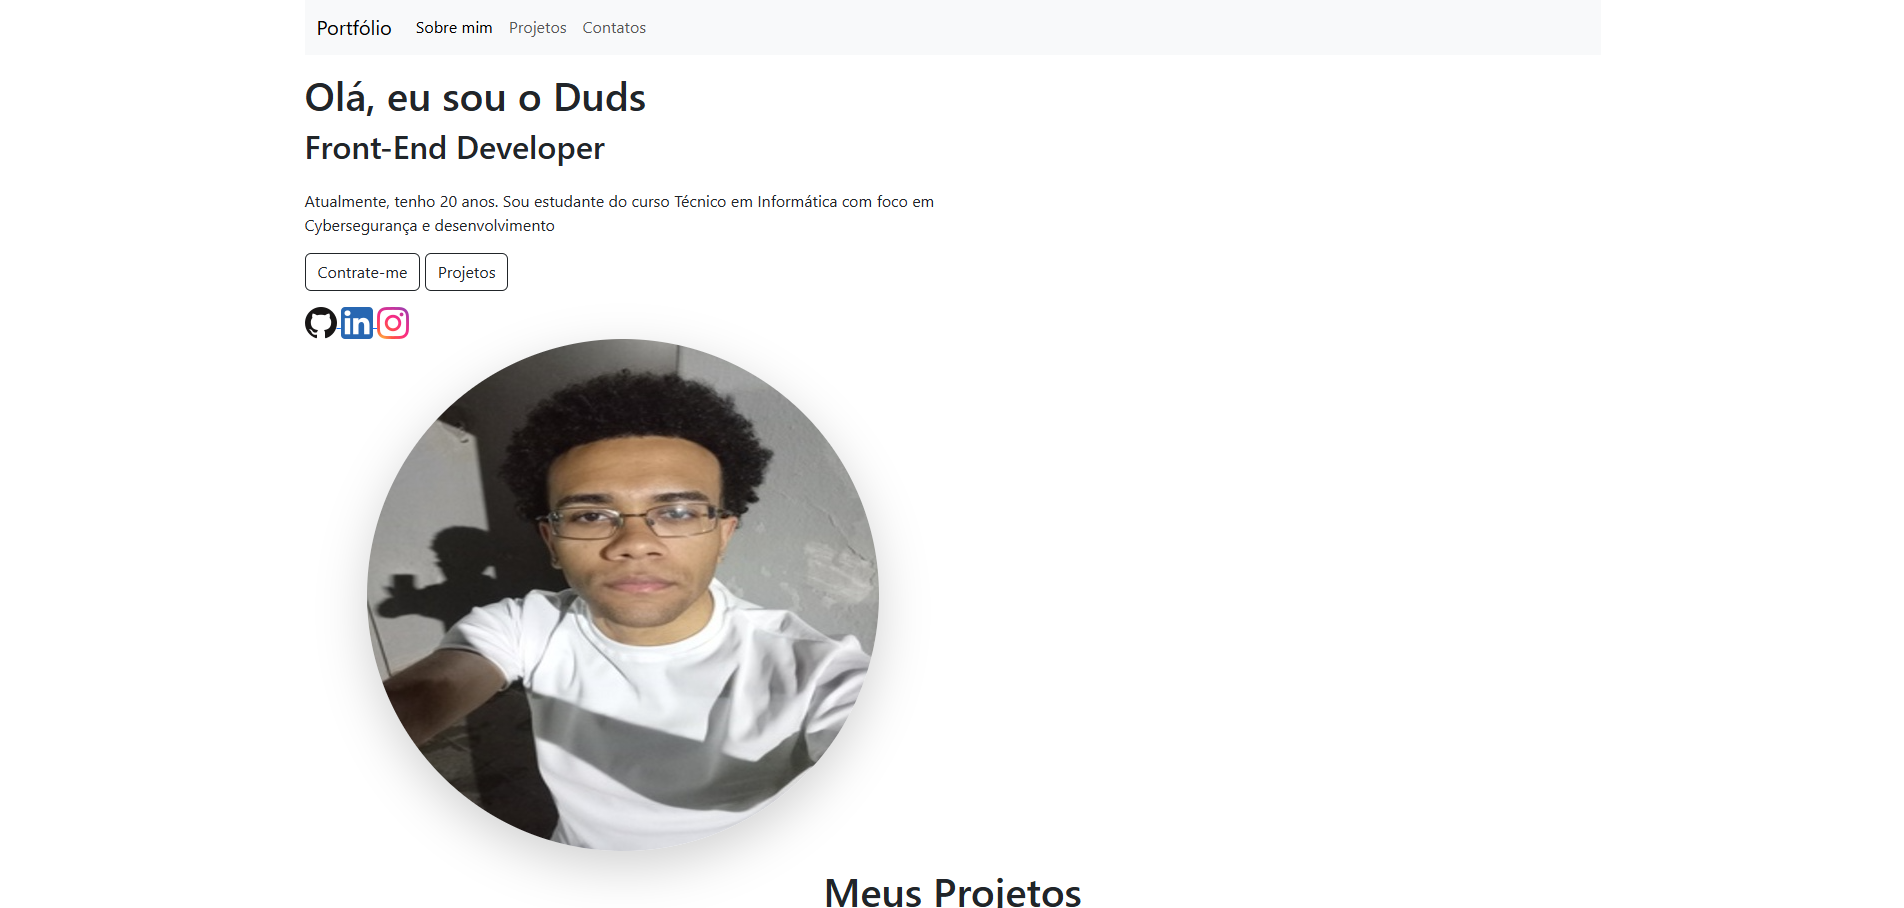
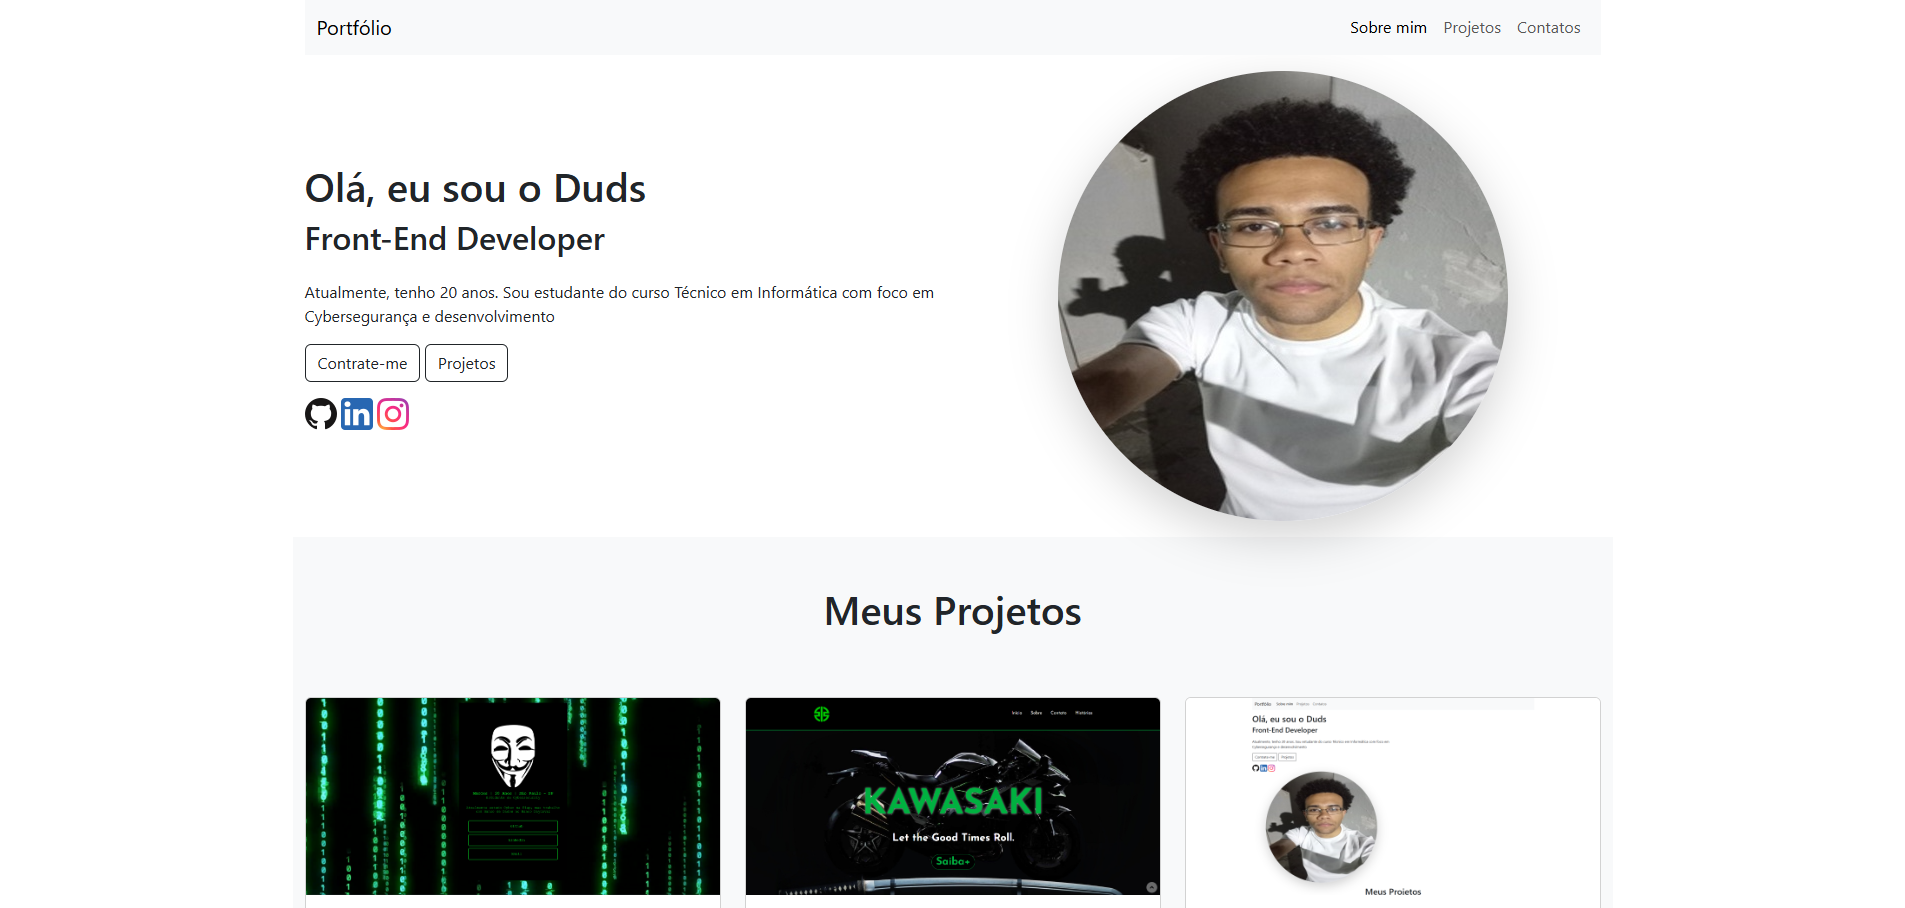
ajustes

diff --git a/index.html b/index.html
@@ -112,10 +112,10 @@
         <div class="card h-100">
           <img src="./img/port.png" class="card-img-top" alt="imagem genérica">
           <div class="card-body">
-            <h2 class="card-title">Em produção</h2>
-            <p class="card-text">Terceiro projeto Front-End, ainda está sendo produzido.</p>
+            <h2 class="card-title">Portfólio</h2>
+            <p class="card-text">Terceiro projeto Front-End, um site do meu portfólio.</p>
             <div class="text-center">
-              <p class="btn btn-danger">Em Construção</p>
+              <p class="btn btn-outline-dark">Repositório Portfólio</p>
             </div>
           </div>
         </div>
@@ -180,8 +180,8 @@
           </div>
 
           <div class="col-12 mb-3">
-            <button type="submit" class="btn btn-primary" aria-label="Enviar mensagem do formulário de contato">Enviar</button>
-            <button type="reset" class="btn btn-primary" aria-label="Limpar formulário de contato">Limpar</button>
+            <button type="submit" class="btn btn-outline-dark" aria-label="Enviar mensagem do formulário de contato">Enviar</button>
+            <button type="reset" class="btn btn-outline-dark" aria-label="Limpar formulário de contato">Limpar</button>
           </div>
         </form>
       </div>
